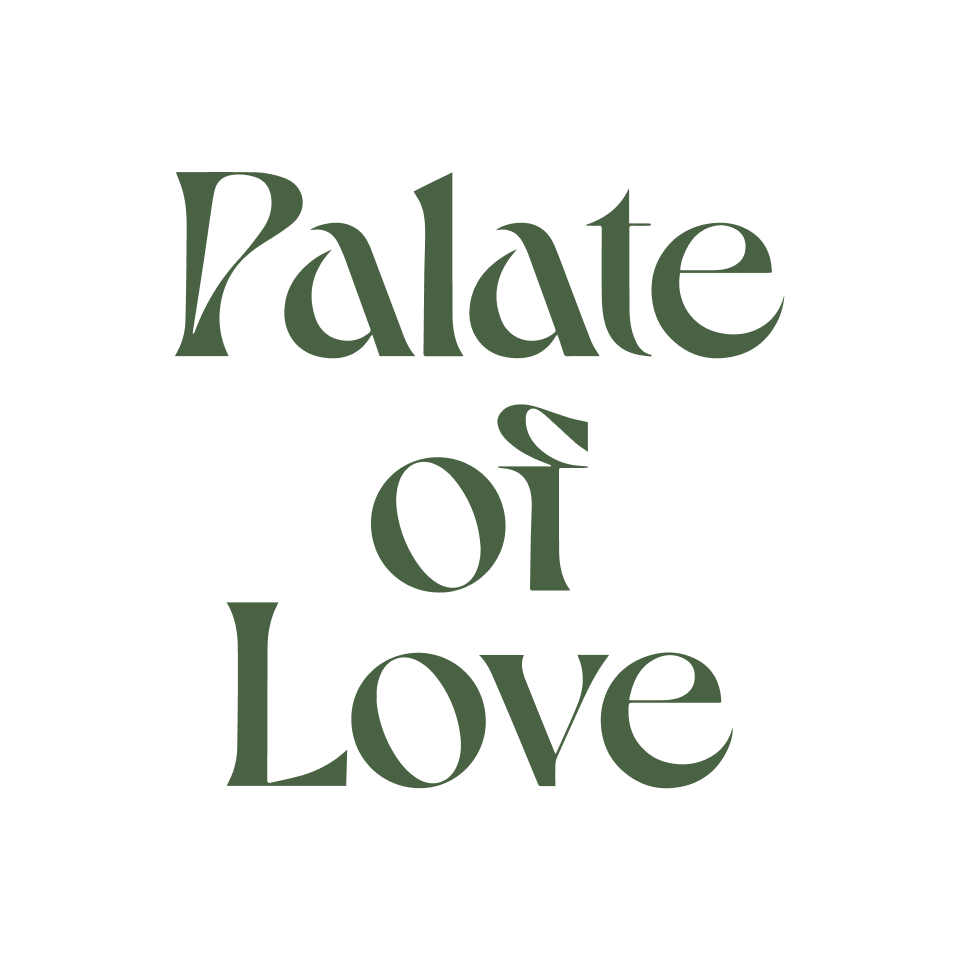
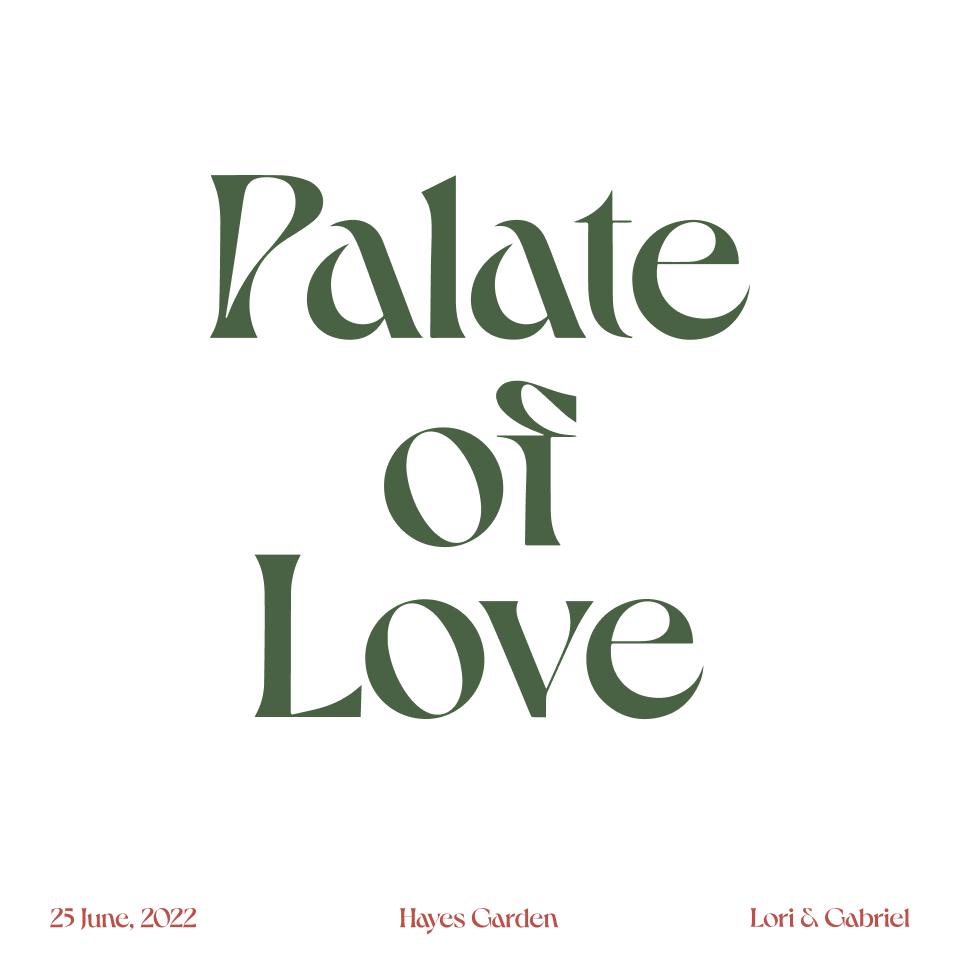
add new main image and modify sectinos

diff --git a/index.html b/index.html
@@ -50,7 +50,7 @@
 
     <!-- Brand -->
     <a class="navbar-brand" href="#home">
-        Lori & Gabriel
+<!--        Lori & Gabriel-->
     </a>
 
     <!-- Toggler -->
@@ -70,6 +70,9 @@
             <li class="nav-item" data-menuanchor="palate-of-love">
                 <a class="nav-link" href="#palate-of-love">Palate of Love</a>
             </li>
+            <li class="nav-item" data-menuanchor="about-us">
+                <a class="nav-link" href="#about-us">We are</a>
+            </li>
             <li class="nav-item" data-menuanchor="our-friends">
                 <a class="nav-link" href="#our-friends">Committee</a>
             </li>
@@ -80,7 +83,7 @@
                 <a class="nav-link" href="#rsvp">RSVP</a>
             </li>
             <li class="nav-item" data-menuanchor="our-pick">
-                <a class="nav-link" href="#our-pick">Lori & Gabriel’s Pick</a>
+                <a class="nav-link" href="#our-pick">More</a>
             </li>
         </ul>
     </div>
@@ -159,30 +162,13 @@
                     <p class="animated" data-animation="fadeInUp">@kimmingook – 김학용 & 김용주 의 막내 아들</p>
                     <p class="animated" data-animation="fadeInUp" data-animation-delay="150"><span>한정판 거래 플랫폼 KREAM 에서 일하고 있습니다. 미식생활에 매우 진심이며, 술과 독서, 커피와 도쿄, 그리고 로리의 모든 것을 사랑합니다.</span>
                     </p>
-                </div>
-                <div class="col-12 col-xl-6 mb-8 mb-xl-0">
                     <h3 class="animated mb-4" data-animation="fadeInUp">신부 김나정 Lori</h3>
                     <p class="animated" data-animation="fadeInUp">@lori.kim – 김승수 & 나경아 의 첫째 딸</p>
                     <p class="animated" data-animation="fadeInUp" data-animation-delay="150"><span>공간과 사물의 컨셉을 기획하는 디자이너, 간헐적 DJ. 여행과 늦잠, 음악은 포기할 수 없고, 디테일이 강한 존재들에게 매력을 느낍니다.</span>
                     </p>
                 </div>
-            </div>
 
-        </div>
-    </section>
-
-    <!-- Section - Our story -->
-    <section class="ln-section d-xl-flex" data-anchor="our-story" data-tooltip="Our solutions" data-ui="light"
-             data-navbar="navbar-dark">
-        <div class="overlay overlay-advanced">
-            <div class="overlay-inner bg-image-holder bg-cover">e
-                <img src="html/assets/images/image-3.jpg" alt="background">
-            </div>
-            <div class="overlay-inner bg-dark opacity-50"></div>
-        </div>
-        <div class="container align-self-xl-center text-white">
-            <div class="row mb-8">
-                <div class="col-12 col-xl-8">
+                <div class="col-12 col-xl-6">
                     <h2 class="mb-4 animated" data-animation="fadeInUp">우리들의 이야기 | Our story</h2>
                     <p class="animated" data-animation="fadeInUp" data-animation-delay="150">
                         친구들과의 저녁 식사 모임에서 처음 만남. 바테이블 각자 끝자리에 앉게 되어 대화를 많이 못함. 아쉬웠던 민국이 전시를 핑계로 로리의 직장을 찾아가 스타벅스 루프탑에서 긴
@@ -196,8 +182,37 @@
                     </p>
                 </div>
             </div>
+
         </div>
     </section>
+
+    <!-- Section - Our story -->
+<!--    <section class="ln-section d-xl-flex" data-anchor="our-story" data-tooltip="Our solutions" data-ui="light"-->
+<!--             data-navbar="navbar-dark">-->
+<!--        <div class="overlay overlay-advanced">-->
+<!--            <div class="overlay-inner bg-image-holder bg-cover">e-->
+<!--                <img src="html/assets/images/image-3.jpg" alt="background">-->
+<!--            </div>-->
+<!--            <div class="overlay-inner bg-dark opacity-50"></div>-->
+<!--        </div>-->
+<!--        <div class="container align-self-xl-center text-white">-->
+<!--            <div class="row mb-8">-->
+<!--                <div class="col-12 col-xl-6">-->
+<!--                    <h2 class="mb-4 animated" data-animation="fadeInUp">우리들의 이야기 | Our story</h2>-->
+<!--                    <p class="animated" data-animation="fadeInUp" data-animation-delay="150">-->
+<!--                        친구들과의 저녁 식사 모임에서 처음 만남. 바테이블 각자 끝자리에 앉게 되어 대화를 많이 못함. 아쉬웠던 민국이 전시를 핑계로 로리의 직장을 찾아가 스타벅스 루프탑에서 긴-->
+<!--                        대화를 나누다 맛있는 스시를 먹으러 가자고 제안함. 이후에 데이트, 산책, 데이트, 산책을 거쳐 사귀게 됨.-->
+<!--                        <br>-->
+<!--                        제주에서 인생 판나코타집을 만나고, 강릉에서 취향저격 미역국과 물회를 먹고, 평창에서 쏟아지는 별을 보고, 부산에서 빈티지 쇼핑을 함께 한 후 츠케멘을 먹으며 천생연분 임을-->
+<!--                        확인.-->
+<!--                        <br>-->
+<!--                        진작에 반지를 준비하여 해외에서의 멋진 프로포즈를 꿈꾸며 타이밍을 엿보았지만 결국 2021년 12월 31일 남해 바다가 아름답게 보이는 절벽에서 반지를 건넴.-->
+
+<!--                    </p>-->
+<!--                </div>-->
+<!--            </div>-->
+<!--        </div>-->
+<!--    </section>-->
 
     <!-- Section - Our friends -->
     <section class="ln-section d-xl-flex" data-anchor="our-friends" data-tooltip="Our work" data-ui="dark"
@@ -244,15 +259,7 @@
                         8:00PM - Midnight 애프터파티. 신나게.
                     </p>
                 </div>
-            </div>
-        </div>
-    </section>
 
-    <!-- Section - Information -->
-    <section class="ln-section d-xl-flex bg-light" data-anchor="information" data-tooltip="Contact" data-ui="dark"
-             data-navbar="navbar-light">
-        <div class="container align-self-center">
-            <div class="row mb-7">
                 <div class="col-12 col-xl-6">
                     <h2 class="mb-4 animated" data-animation="fadeInUp">결혼식 정보 | Information</h2>
                     <p class="animated" data-animation="fadeInUp" data-animation-delay="150">
@@ -274,6 +281,33 @@
             </div>
         </div>
     </section>
+
+    <!-- Section - Information -->
+<!--    <section class="ln-section d-xl-flex bg-light" data-anchor="information" data-tooltip="Contact" data-ui="dark"-->
+<!--             data-navbar="navbar-light">-->
+<!--        <div class="container align-self-center">-->
+<!--            <div class="row mb-7">-->
+<!--                <div class="col-12 col-xl-6">-->
+<!--                    <h2 class="mb-4 animated" data-animation="fadeInUp">결혼식 정보 | Information</h2>-->
+<!--                    <p class="animated" data-animation="fadeInUp" data-animation-delay="150">-->
+<!--                        - 일시: 2022년 6월 25일, 6시~Midnight-->
+<!--                        <br>-->
+<!--                        - 위치: 서울시 서초구 내곡동 1-399, 헤이스가든-->
+<!--                    </p>-->
+<!--                    <div class="iframe-container animated" data-animation="fadeInUp">-->
+<!--                        <iframe class="responsive-iframe"-->
+<!--                                src="https://www.google.com/maps/embed?pb=!1m18!1m12!1m3!1d3167.2690412720444!2d127.073809315728!3d37.45436917981896!2m3!1f0!2f0!3f0!3m2!1i1024!2i768!4f13.1!3m3!1m2!1s0x357ca6fbb469c109%3A0x15ef32e81178f984!2z7Zek7J207Iqk6rCA65Og!5e0!3m2!1sko!2skr!4v1643547866269!5m2!1sko!2skr"-->
+<!--                                width=100% height="450" style="border:0;" allowfullscreen></iframe>-->
+<!--                    </div>-->
+<!--                    <p class="animated" data-animation="fadeInUp" data-animation-delay="150">-->
+<!--                        - 드레스코드: Cocktail & Semi Formal-->
+<!--                        <br>-->
+<!--                        - 드링크코드: “I will drink until next morning. Thank you”-->
+<!--                    </p>-->
+<!--                </div>-->
+<!--            </div>-->
+<!--        </div>-->
+<!--    </section>-->
 
     <!-- Section - RSVP -->
     <section class="ln-section d-xl-flex bg-light" data-anchor="rsvp" data-tooltip="Contact" data-ui="dark"
